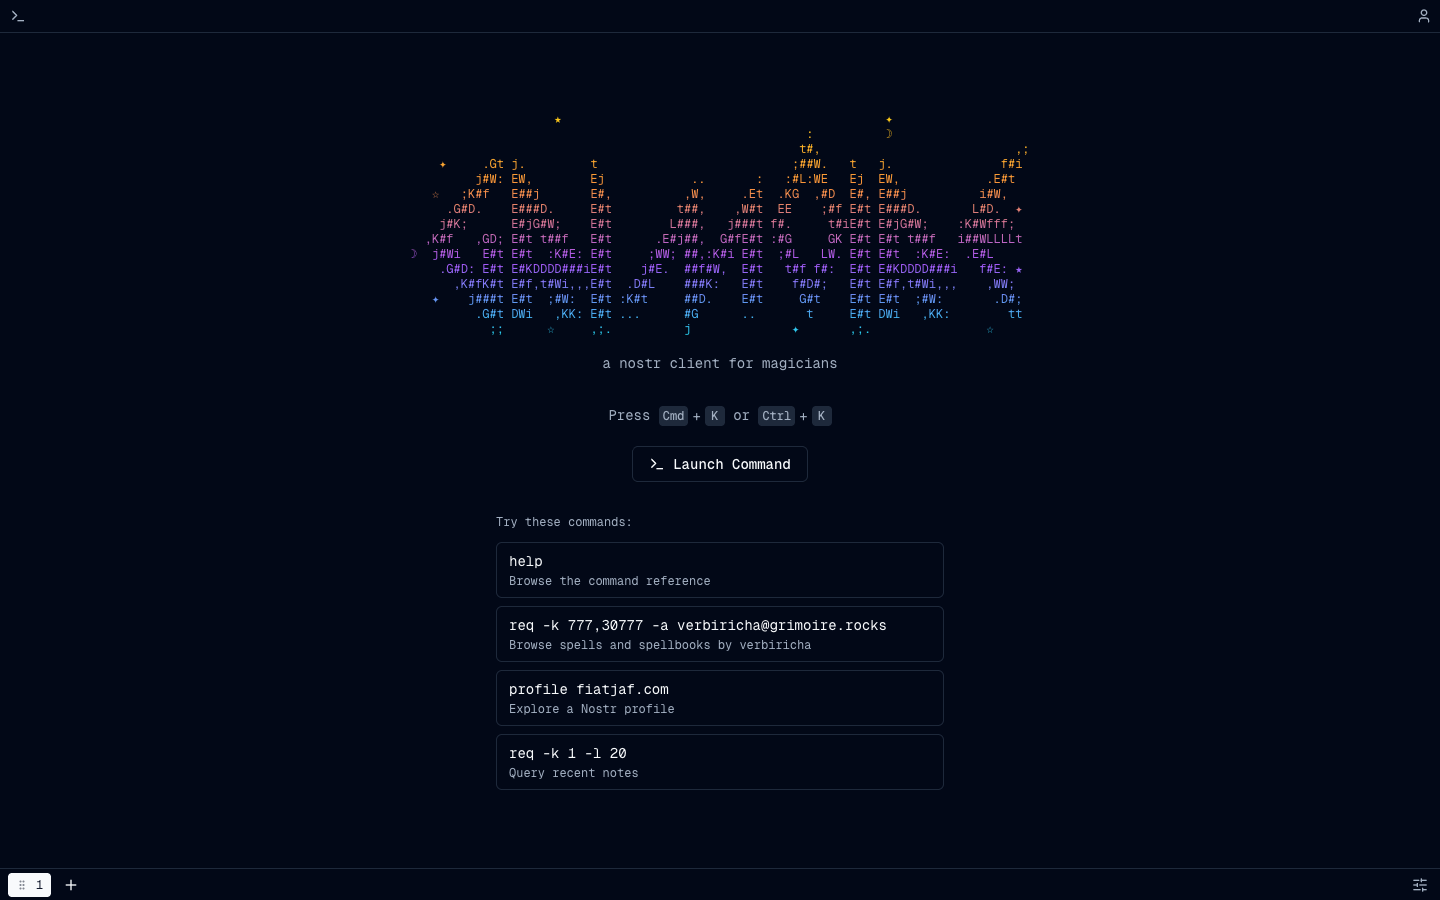
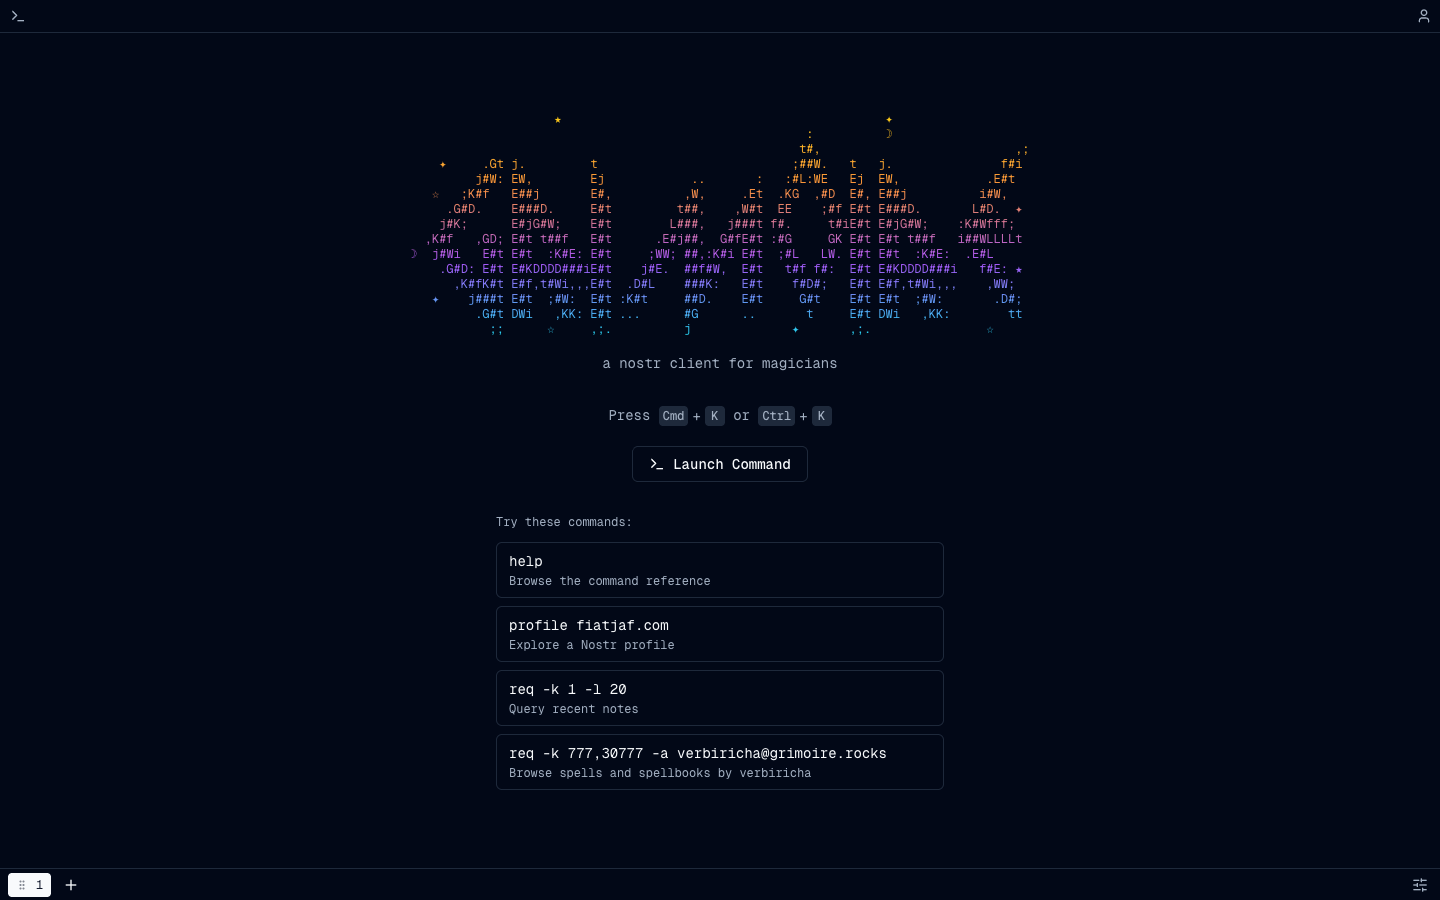
docs(evidence): recapture welcome suggestions with the spells query last

Changed region(s): [[0.3438, 0.6844, 0.625, 0.8711]]

diff --git a/docs/evidence/welcome-spells/README.md b/docs/evidence/welcome-spells/README.md
@@ -3,9 +3,9 @@
 ## What these captures are and are not
 
 - **Builds.** Local production builds (`vite build`) served with `vite preview`.
-  The PR build is **`51a1fa5`**, the last functional commit on this branch
+  The PR build is **`142aaf3`**, the last functional commit on this branch
   (later commits add only this folder; the captured `dist/` was checked
-  byte-identical to a rebuild of that commit). The baseline is `origin/main`
+  byte-identical to a rebuild of that commit for the earlier `51a1fa5` capture; the `142aaf3` capture is the `dist/` built from that commit's own verify run). The baseline is `origin/main`
   at **`db52bc9`**.
 - **Not the Vercel preview.** That preview sits behind Vercel Authentication.
 - **Browser.** Headless Google Chrome, a fresh temporary profile per capture
@@ -40,3 +40,10 @@ Measured layout (CSS px, from the page itself):
 
 Without the `px-4` gutter (`72ab47c` alone) the longer command stretched the
 cards to 388px, ending 0px from the right edge at 390px; `51a1fa5` fixes it.
+
+## Order (`142aaf3`)
+
+The PR captures were retaken after owner feedback moved the spells query to
+the end of the list: help, profile fiatjaf.com, req -k 1 -l 20, then
+`req -k 777,30777 -a verbiricha@grimoire.rocks`. Layout measurements are
+unchanged from `51a1fa5`.
